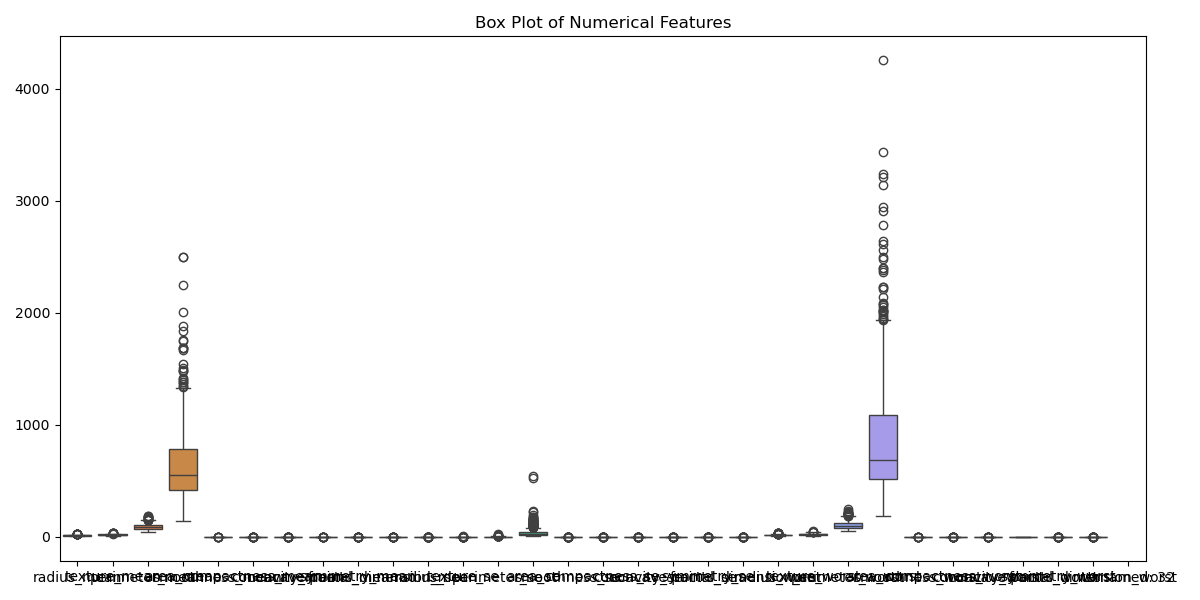
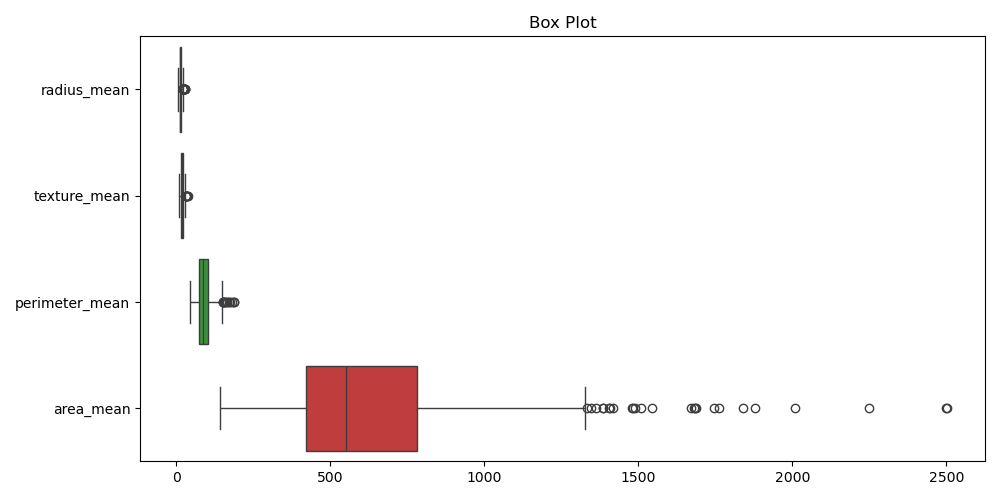
ADD EDA

diff --git a/EDA/generateviaualiztion.py b/EDA/generateviaualiztion.py
@@ -1,0 +1,55 @@
+
+import pandas as pd
+import matplotlib.pyplot as plt
+import seaborn as sns
+
+data = pd.read_csv('/Users/jyoti./Downloads/breast_cancer_cleaned.csv')
+
+data = data.drop(columns=['id'], errors='ignore')
+numeric = data.select_dtypes(include='number')
+
+if 'diagnosis' in data.columns:
+    plt.figure(figsize=(6, 4))
+    sns.countplot(data=data, x='diagnosis')
+    plt.title('Class Distribution')
+    plt.savefig('class_distribution.png')
+
+numeric.hist(figsize=(15, 12), bins=20)
+plt.suptitle('Feature Histograms')
+plt.tight_layout()
+plt.savefig('feature_histograms.png')
+
+plt.figure(figsize=(10, 8))
+sns.heatmap(numeric.corr(), cmap='coolwarm')
+plt.title('Correlation Matrix')
+plt.tight_layout()
+plt.savefig('correlation_matrix.png')
+
+features = [
+    col for col in
+    ['radius_mean', 'texture_mean', 'perimeter_mean', 'area_mean']
+    if col in numeric.columns
+]
+
+if features:
+    plt.figure(figsize=(10, 5))
+    sns.boxplot(data=numeric[features], orient='h')
+    plt.title('Box Plot')
+    plt.tight_layout()
+    plt.savefig('box_plot.png')
+
+if len(features) >= 2:
+    pair_data = data[features].copy()
+
+    if 'diagnosis' in data.columns:
+        pair_data['diagnosis'] = data['diagnosis'].astype(str)
+        g = sns.pairplot(pair_data, vars=features, hue='diagnosis')
+    else:
+        g = sns.pairplot(pair_data, vars=features)
+
+    g.figure.suptitle('Pair Plot', y=1.02)
+    g.savefig('pair_plot.png')
+
+plt.show()
+
+print("All visualizations generated successfully!")

diff --git a/EDA/cleandata.py b/EDA/cleandata.py
@@ -1,0 +1,35 @@
+
+import pandas as pd
+
+data = pd.read_csv('/Users/jyoti./Downloads/breast cancer.csv')
+
+data.columns = data.columns.str.strip()
+
+data = data.loc[:, ~data.columns.str.contains('^Unnamed', case=False)]
+
+data = data.dropna(axis=1, how='all')
+
+data = data.drop_duplicates()
+
+for col in data.select_dtypes(include='number').columns:
+    data[col] = data[col].fillna(data[col].median())
+
+for col in data.select_dtypes(exclude='number').columns:
+    if data[col].isnull().any():
+        mode = data[col].mode()
+        if not mode.empty:
+            data[col] = data[col].fillna(mode[0])
+
+print("Cleaned Dataset:")
+print(data.head())
+
+print("\nMissing Values:")
+print(data.isnull().sum())
+
+print("\nDataset Shape:")
+print(data.shape)
+
+data.to_csv('/Users/jyoti./Downloads/breast_cancer_cleaned.csv',
+            index=False)
+
+print("\nCleaned data saved successfully!")

diff --git a/EDA/analytics.py b/EDA/analytics.py
@@ -1,0 +1,26 @@
+import pandas as pd
+data = pd.read_csv('/Users/jyoti./Downloads/breast_cancer_cleaned.csv')
+print("Dataset Shape:")
+print(data.shape)
+
+print("\nStatistical Summary:")
+print(data.describe())
+
+print("\nMean:")
+print(data.mean(numeric_only=True))
+
+print("\nMedian:")
+print(data.median(numeric_only=True))
+
+print("\nStandard Deviation:")
+print(data.std(numeric_only=True))
+
+print("\nMinimum Values:")
+print(data.min(numeric_only=True))
+
+print("\nMaximum Values:")
+print(data.max(numeric_only=True))
+
+if 'diagnosis' in data.columns:
+    print("\nClass Distribution:")
+    print(data['diagnosis'].value_counts())

diff --git a/EDA/processeeddata.py b/EDA/processeeddata.py
@@ -1,0 +1,12 @@
+import pandas as pd
+
+data = pd.read_csv('/Users/jyoti./Downloads/breast cancer.csv')
+
+data = data.drop_duplicates()
+
+for col in data.select_dtypes(include='number').columns:
+    data[col] = data[col].fillna(data[col].median())
+
+data.to_csv('/Users/jyoti./Downloads/processed_data.csv', index=False)
+
+print("Processed data saved successfully!")

diff --git a/EDA/loaddataset.py b/EDA/loaddataset.py
@@ -1,0 +1,7 @@
+import pandas as pd
+import numpy as np
+import seaborn as sns
+import matplotlib.pyplot as plt
+
+data = pd.read_csv('/Users/jyoti./Downloads/breast cancer.csv')
+print(data)
